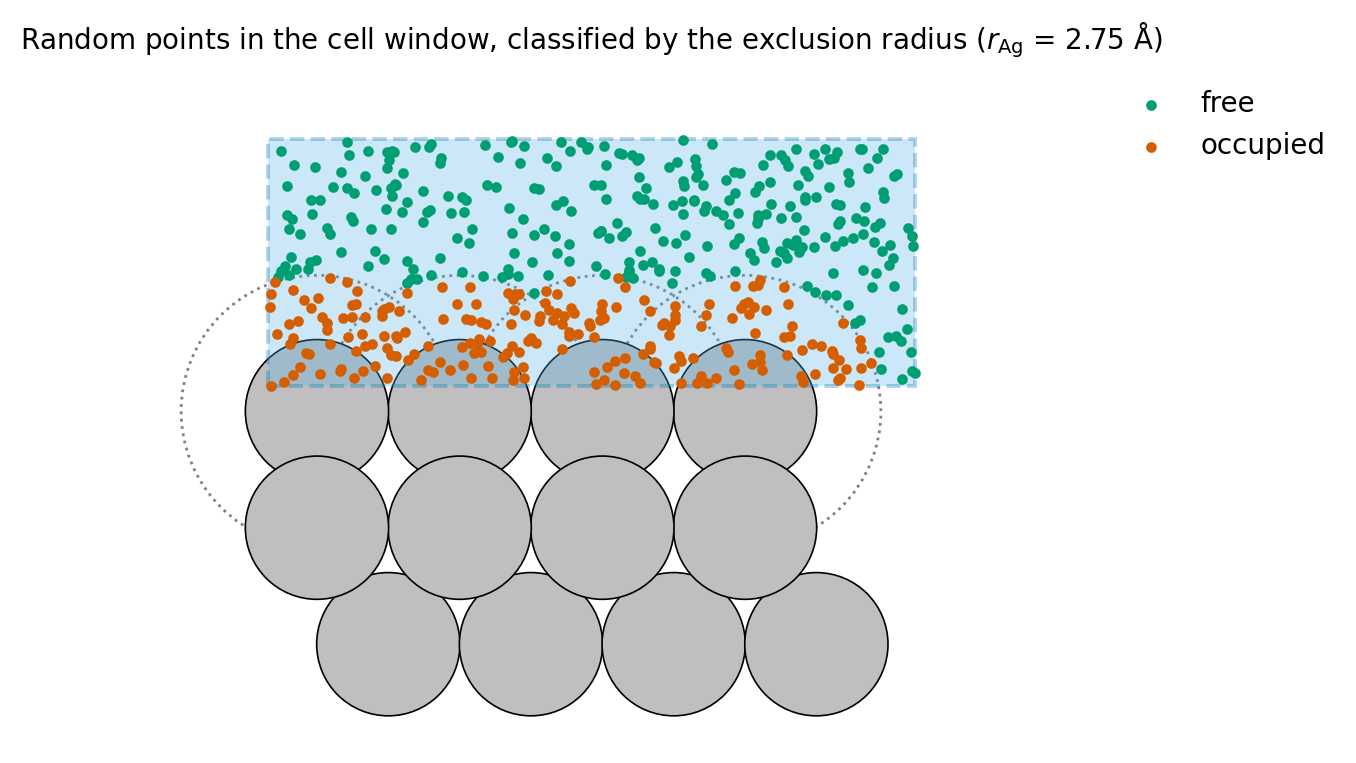
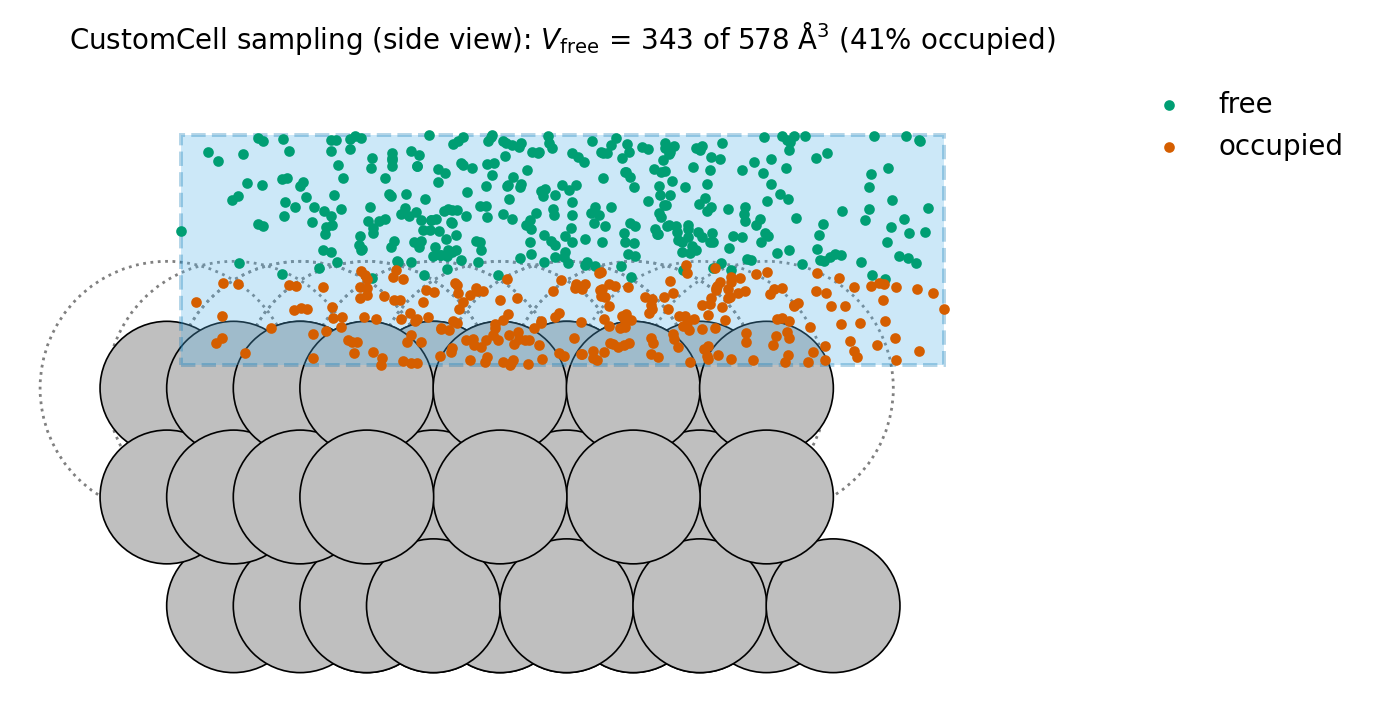
Build the free-volume figure with the CustomCell itself

diff --git a/docs/make_figures.py b/docs/make_figures.py
@@ -157,28 +157,42 @@ def fig_cells():
 
 
 def fig_free_volume():
-    """Free-volume estimator schematic: exclusion disks and sample points."""
+    """Free-volume figure built with the tutorial's own CustomCell: points
+    come from cell.get_random_point() and the free volume from the cell's
+    estimator."""
     from ase.build import fcc111
+    from scipy.spatial import cKDTree
 
-    rng = np.random.default_rng(7)
-    slab = fcc111('Ag', a=4.085, size=(4, 1, 3), vacuum=8.0, periodic=False)
+    from mcpy.cell import CustomCell
+
     r_ag = 2.75
-    bottom_z = slab.positions[:, 2].max() + 0.5
     height = 5.0
-    x0, x1 = -1.0, slab.positions[:, 0].max() + 2.0
+    slab = fcc111('Ag', a=4.085, size=(4, 4, 3), vacuum=8.0, periodic=True)
+    bottom_z = slab.positions[:, 2].max() + 0.5
+    cell = CustomCell(slab, custom_height=height, bottom_z=bottom_z,
+                      species_radii={'Ag': r_ag, 'O': 0.0},
+                      mc_sample_points=100_000, seed=7)
+    cell.calculate_volume(slab)
+    v_free, v_cell = cell.get_volume(), cell.cell_volume
 
-    pts = np.c_[rng.uniform(x0, x1, 500), rng.uniform(bottom_z, bottom_z + height, 500)]
-    xz = slab.positions[:, [0, 2]]
-    occ = (np.linalg.norm(pts[:, None] - xz[None], axis=2) <= r_ag).any(axis=1)
+    pts = np.array([cell.get_random_point() for _ in range(600)])
+    # classify the plotted points exactly as the cell's estimator does
+    tree = cKDTree(cell._periodic_images(slab))
+    dists, _ = tree.query(pts - cell.offset, k=1)
+    occ = dists <= r_ag
 
     fig, ax = plt.subplots(figsize=(7, 4.4))
     draw_atoms_2d(ax, slab)
-    for p in xz[xz[:, 1] > slab.positions[:, 2].max() - 1]:
+    top = slab.positions[slab.positions[:, 2] > bottom_z - 1.2]
+    for p in top[:, [0, 2]]:
         ax.add_patch(Circle(p, r_ag, facecolor='none', edgecolor='gray',
                             linestyle=':', linewidth=1.0, zorder=1))
+    x0, x1 = pts[:, 0].min(), pts[:, 0].max()
     shade(ax, Rectangle((x0, bottom_z), x1 - x0, height))
-    ax.scatter(*pts[~occ].T, s=8, color=GREEN, zorder=4, label='free')
-    ax.scatter(*pts[occ].T, s=8, color=VERMILION, zorder=4, label='occupied')
+    ax.scatter(pts[~occ][:, 0], pts[~occ][:, 2], s=8, color=GREEN,
+               zorder=4, label='free')
+    ax.scatter(pts[occ][:, 0], pts[occ][:, 2], s=8, color=VERMILION,
+               zorder=4, label='occupied')
     ax.legend(loc='upper left', bbox_to_anchor=(1.01, 1.0), frameon=False)
     ax.set_xlim(x0 - 3.5, x1 + 3.5)
     ax.set_ylim(slab.positions[:, 2].min() - 2, bottom_z + height + 1.5)
@@ -186,8 +200,10 @@ def fig_free_volume():
     ax.set_yticks([])
     for s in ax.spines.values():
         s.set_visible(False)
-    ax.set_title('Random points in the cell window, classified by the '
-                 f'exclusion radius ($r_\\mathrm{{Ag}}$ = {r_ag} Å)')
+    ax.set_title('CustomCell sampling (side view): '
+                 f'$V_\\mathrm{{free}}$ = {v_free:.0f} of {v_cell:.0f} '
+                 f'$\\mathrm{{\\AA^3}}$ '
+                 f'({100 * (1 - v_free / v_cell):.0f}% occupied)')
     fig.savefig(STATIC / 'fig_free_volume.png')
     plt.close(fig)
 

diff --git a/docs/getting_started.rst b/docs/getting_started.rst
@@ -79,10 +79,11 @@ derive them for your own potential and system.
    :width: 85%
    :align: center
 
-   The ``CustomCell`` window above the slab (2D schematic). The cell samples
-   random points in the shaded window and classifies each one against the
-   exclusion radii; only the free fraction counts toward
-   :math:`V_{\mathrm{free}}`.
+   The ``CustomCell`` built above, sampled by its own machinery
+   (``docs/make_figures.py``): the dots are draws from
+   ``cell.get_random_point()``, classified by the cell's estimator, and the
+   :math:`V_{\mathrm{free}}` in the title is what ``cell.get_volume()``
+   reports and the acceptance rule uses.
 
 .. code-block:: python
 

diff --git a/docs/species_radii.rst b/docs/species_radii.rst
@@ -35,10 +35,11 @@ See :ref:`free-volume` for the role of :math:`V_{\mathrm{free}}` in the GCMC acc
    :width: 85%
    :align: center
 
-   The estimator at work in a ``CustomCell`` window over an Ag(111) slab
-   (2D schematic). Each random point (dots) is classified against the
-   exclusion disks of radius :math:`r_{\mathrm{Ag}}` (dotted circles); the
-   free fraction of the window sets :math:`V_{\mathrm{free}}`.
+   The estimator at work in a ``CustomCell`` over an Ag(111) slab, sampled
+   by the cell itself (``docs/make_figures.py``). Each point drawn by
+   ``cell.get_random_point()`` is classified against the exclusion disks of
+   radius :math:`r_{\mathrm{Ag}}` (dotted circles); the free fraction sets
+   the :math:`V_{\mathrm{free}}` that ``cell.get_volume()`` returns.
 
 
 Measure the radius from relaxed insertions